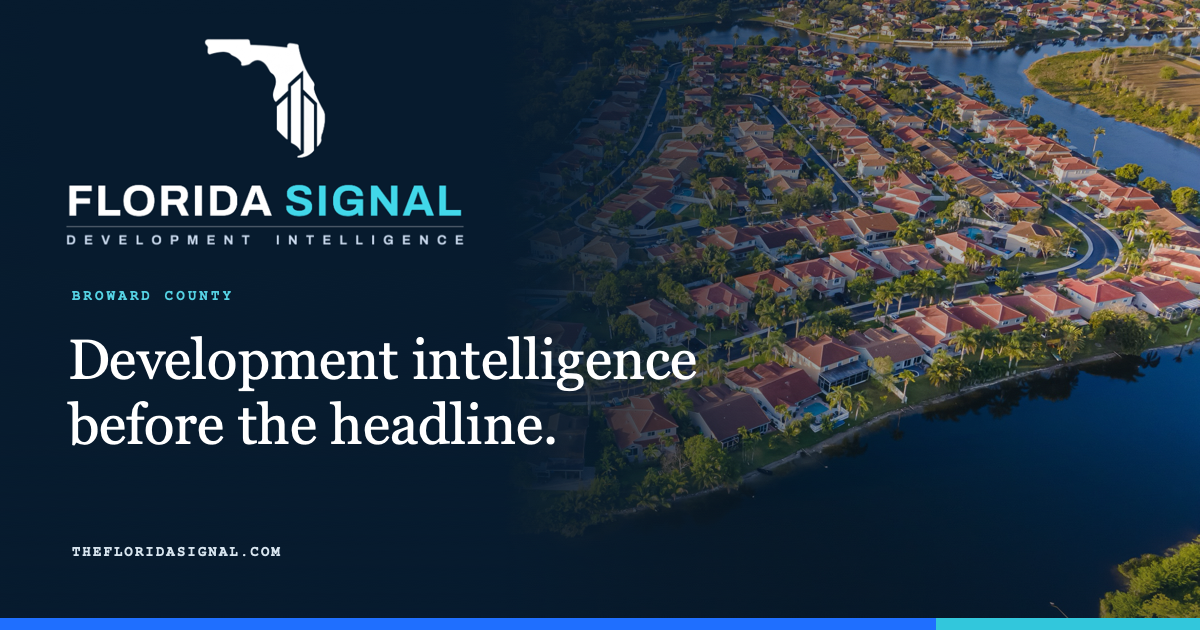
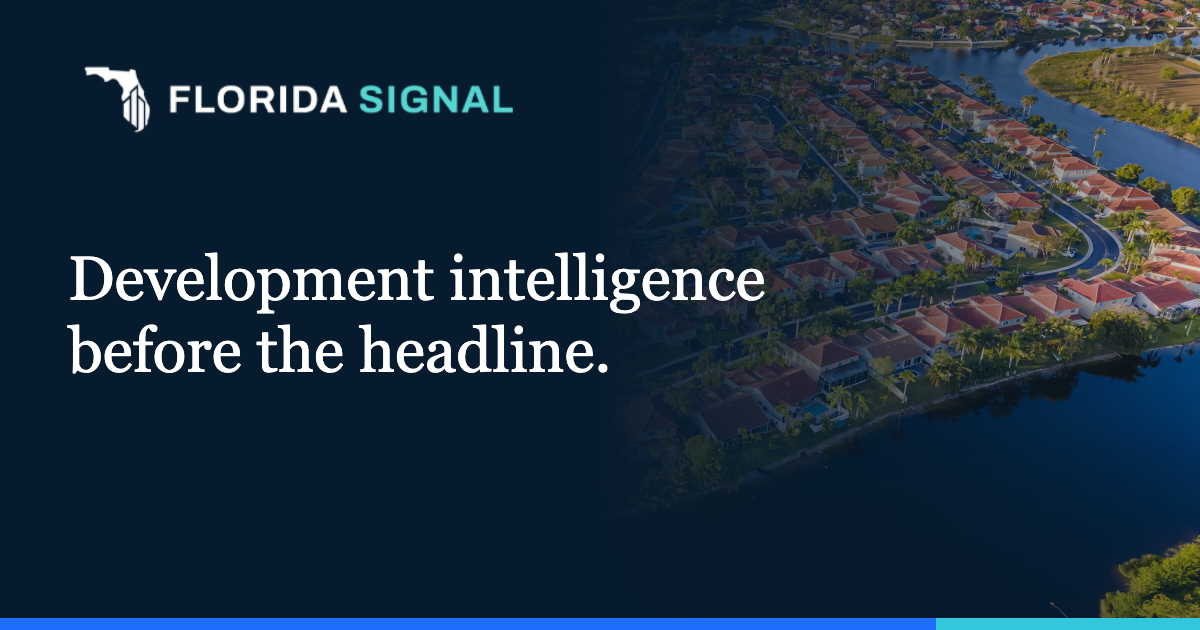
Improve share thumbnail mobile clarity

Changed region(s): [[0.0308, 0.0, 0.9558, 0.8143], [0.0617, 0.0603, 0.4317, 0.2413], [0.0617, 0.8444, 0.2467, 0.9048]]

diff --git a/index.html b/index.html
@@ -9,19 +9,19 @@
   <link rel="canonical" href="https://thefloridasignal.com/">
   <meta property="og:type" content="website">
   <meta property="og:site_name" content="Florida Signal">
-  <meta property="og:title" content="Florida Signal Brief — Broward development intelligence">
+  <meta property="og:title" content="Florida Signal">
   <meta property="og:description" content="Human-verified public decisions, property moves and filings that can change a project’s timing, value or feasibility across Broward County.">
   <meta property="og:url" content="https://thefloridasignal.com/">
-  <meta property="og:image" content="https://thefloridasignal.com/assets/social/florida-signal-share-adobe-428926084-1200x630.png">
-  <meta property="og:image:secure_url" content="https://thefloridasignal.com/assets/social/florida-signal-share-adobe-428926084-1200x630.png">
+  <meta property="og:image" content="https://thefloridasignal.com/assets/social/florida-signal-share-adobe-428926084-1200x630.png?v=20260817-2">
+  <meta property="og:image:secure_url" content="https://thefloridasignal.com/assets/social/florida-signal-share-adobe-428926084-1200x630.png?v=20260817-2">
   <meta property="og:image:type" content="image/png">
   <meta property="og:image:width" content="1200">
   <meta property="og:image:height" content="630">
   <meta property="og:image:alt" content="Florida Signal — development intelligence before the headline, over an aerial view of Fort Lauderdale waterfront neighborhoods.">
   <meta name="twitter:card" content="summary_large_image">
-  <meta name="twitter:title" content="Florida Signal Brief">
+  <meta name="twitter:title" content="Florida Signal">
   <meta name="twitter:description" content="Human-verified Broward development intelligence—with the source proof attached.">
-  <meta name="twitter:image" content="https://thefloridasignal.com/assets/social/florida-signal-share-adobe-428926084-1200x630.png">
+  <meta name="twitter:image" content="https://thefloridasignal.com/assets/social/florida-signal-share-adobe-428926084-1200x630.png?v=20260817-2">
   <meta name="twitter:image:alt" content="Florida Signal — development intelligence before the headline, over an aerial view of Fort Lauderdale waterfront neighborhoods.">
   <title>Florida Signal Brief | Development Intelligence</title>
   <link rel="icon" type="image/png" sizes="32x32" href="/brand/florida-signal-logo-avatar-kit-2026-08-16/avatars/fs-avatar-navy-32.png">

diff --git a/fort-lauderdale/index.html b/fort-lauderdale/index.html
@@ -15,8 +15,8 @@
   <meta property="og:title" content="Florida Signal">
   <meta property="og:description" content="Broward-wide development intelligence launching city by city. Fort Lauderdale is the first live desk.">
   <meta property="og:url" content="https://thefloridasignal.com/fort-lauderdale/">
-  <meta property="og:image" content="https://thefloridasignal.com/assets/social/florida-signal-share-adobe-428926084-1200x630.png">
-  <meta property="og:image:secure_url" content="https://thefloridasignal.com/assets/social/florida-signal-share-adobe-428926084-1200x630.png">
+  <meta property="og:image" content="https://thefloridasignal.com/assets/social/florida-signal-share-adobe-428926084-1200x630.png?v=20260817-2">
+  <meta property="og:image:secure_url" content="https://thefloridasignal.com/assets/social/florida-signal-share-adobe-428926084-1200x630.png?v=20260817-2">
   <meta property="og:image:type" content="image/png">
   <meta property="og:image:width" content="1200">
   <meta property="og:image:height" content="630">
@@ -24,7 +24,7 @@
   <meta name="twitter:card" content="summary_large_image">
   <meta name="twitter:title" content="Florida Signal">
   <meta name="twitter:description" content="What is changing in Fort Lauderdale and Broward, block by block.">
-  <meta name="twitter:image" content="https://thefloridasignal.com/assets/social/florida-signal-share-adobe-428926084-1200x630.png">
+  <meta name="twitter:image" content="https://thefloridasignal.com/assets/social/florida-signal-share-adobe-428926084-1200x630.png?v=20260817-2">
   <meta name="twitter:image:alt" content="Florida Signal — development intelligence before the headline, over an aerial view of Fort Lauderdale waterfront neighborhoods.">
   <title>Florida Signal — Development intelligence before the headline</title>
   <link rel="icon" type="image/png" sizes="32x32" href="/assets/favicon-32.png">
